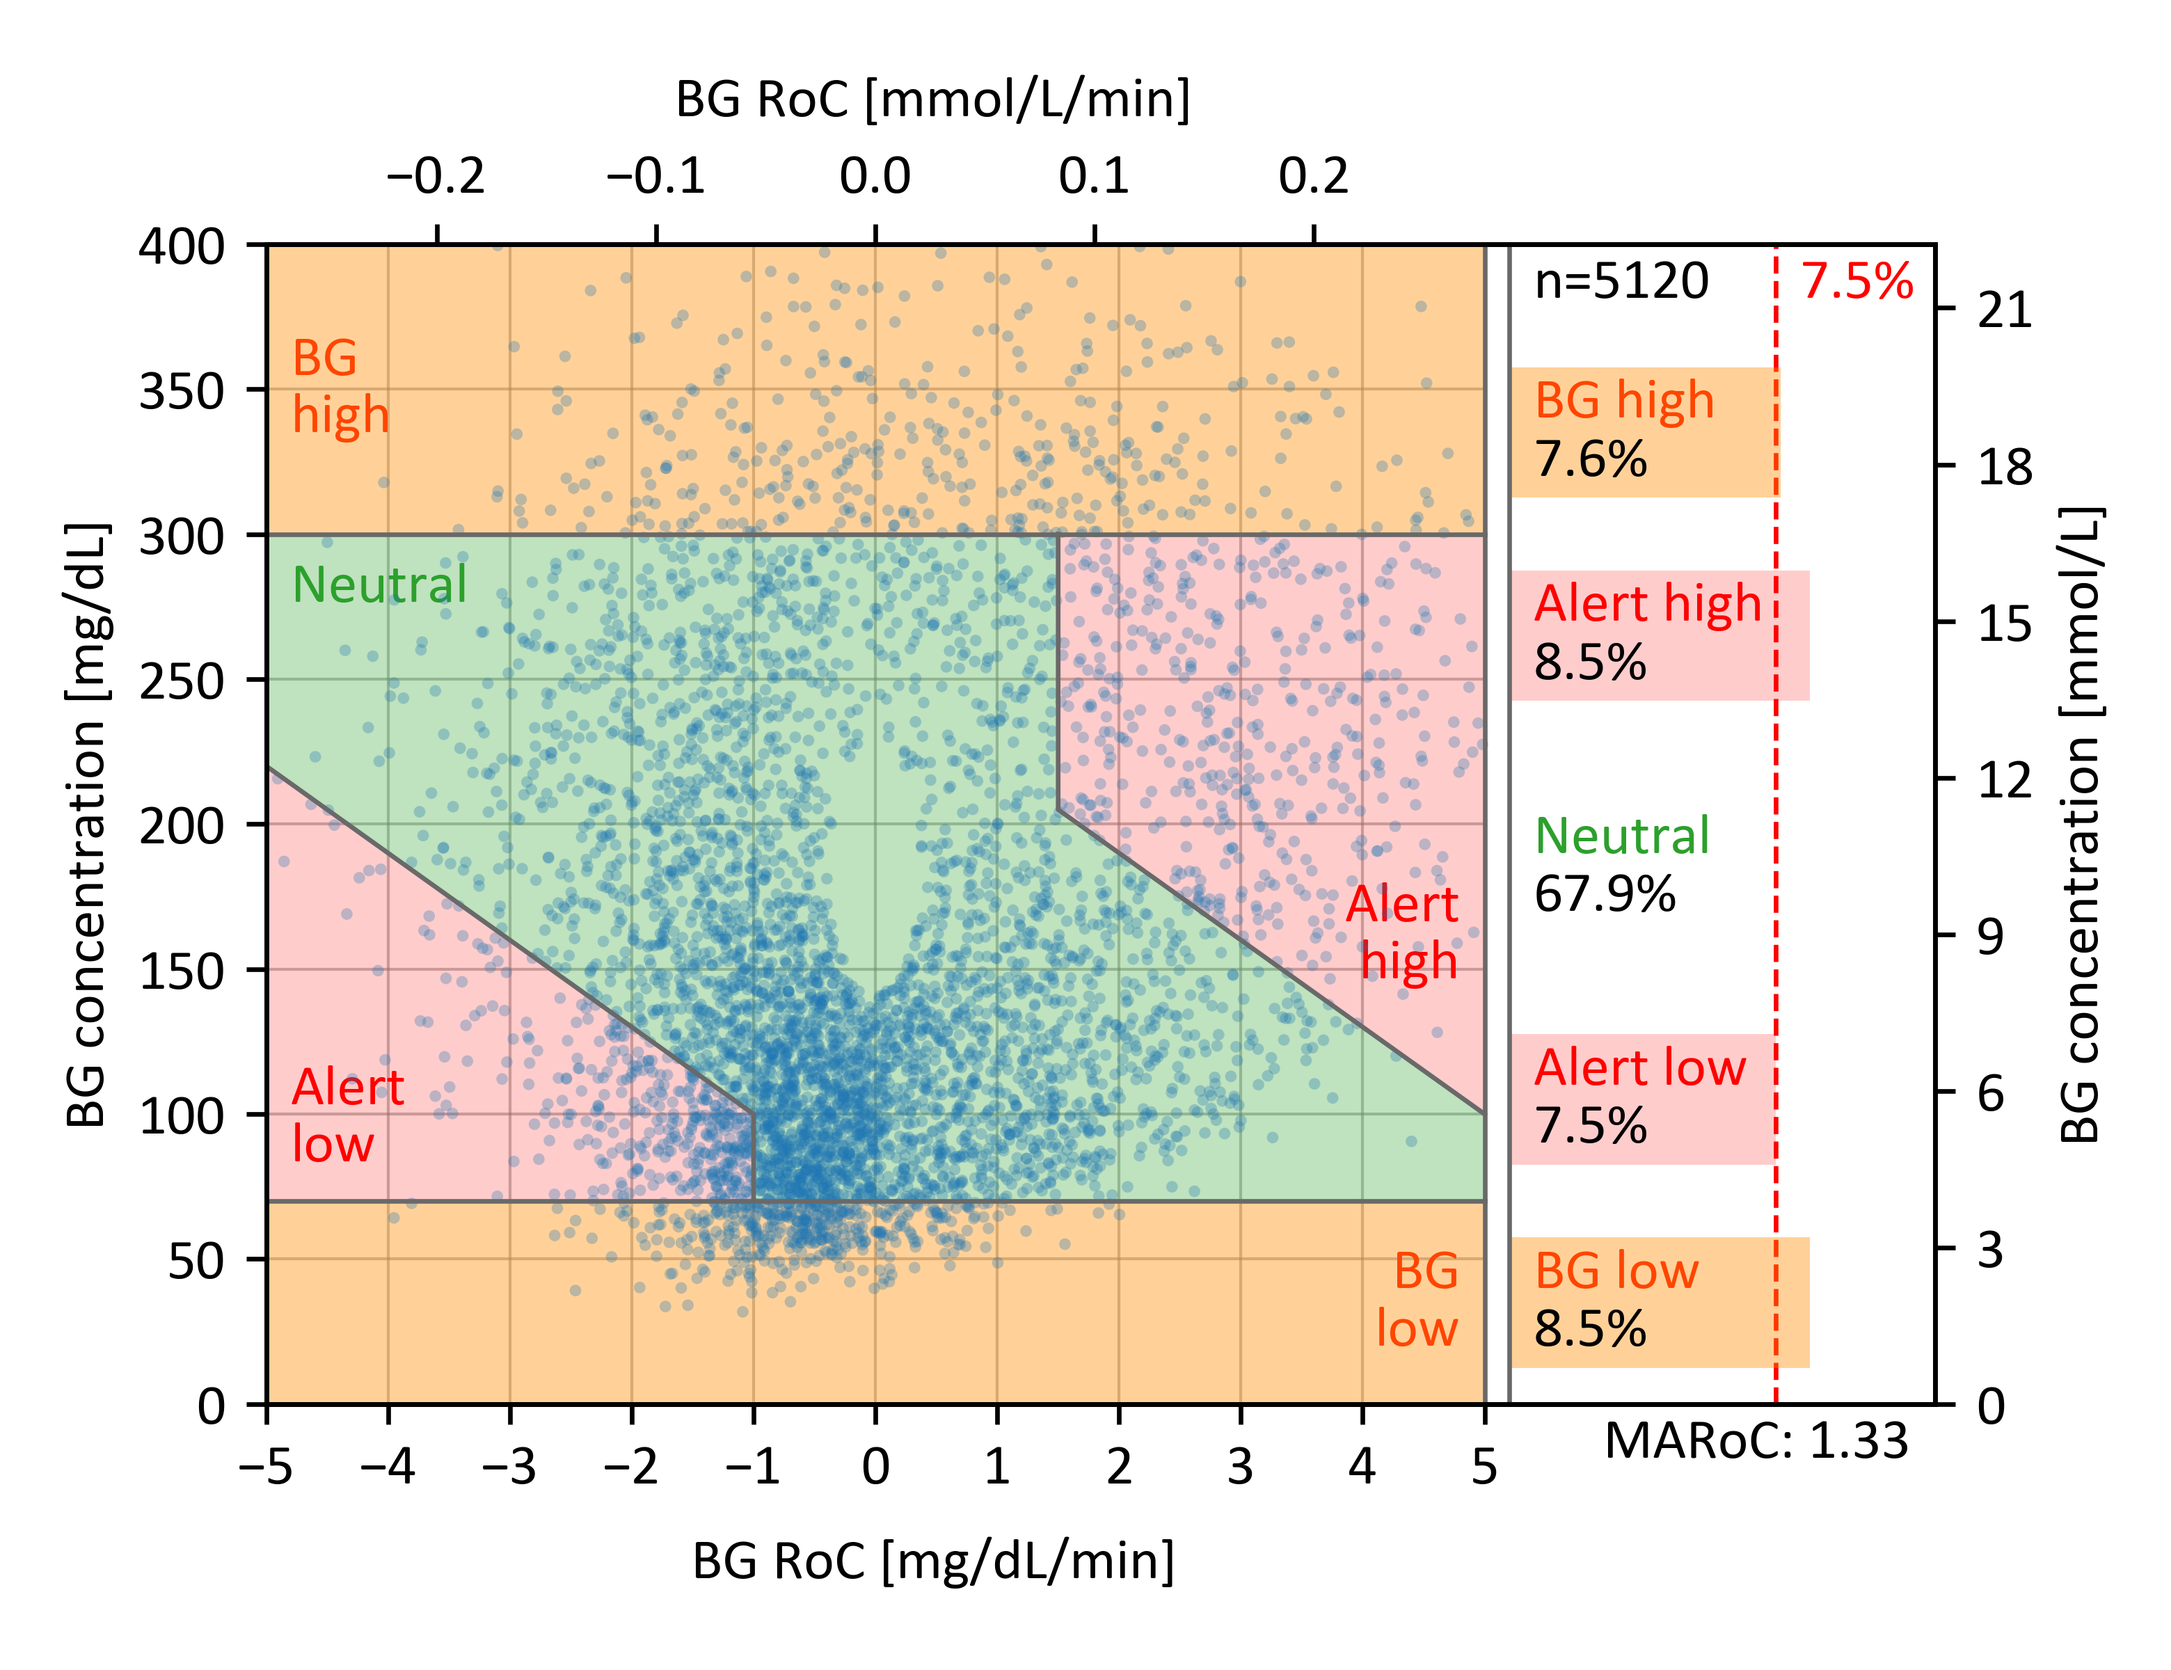
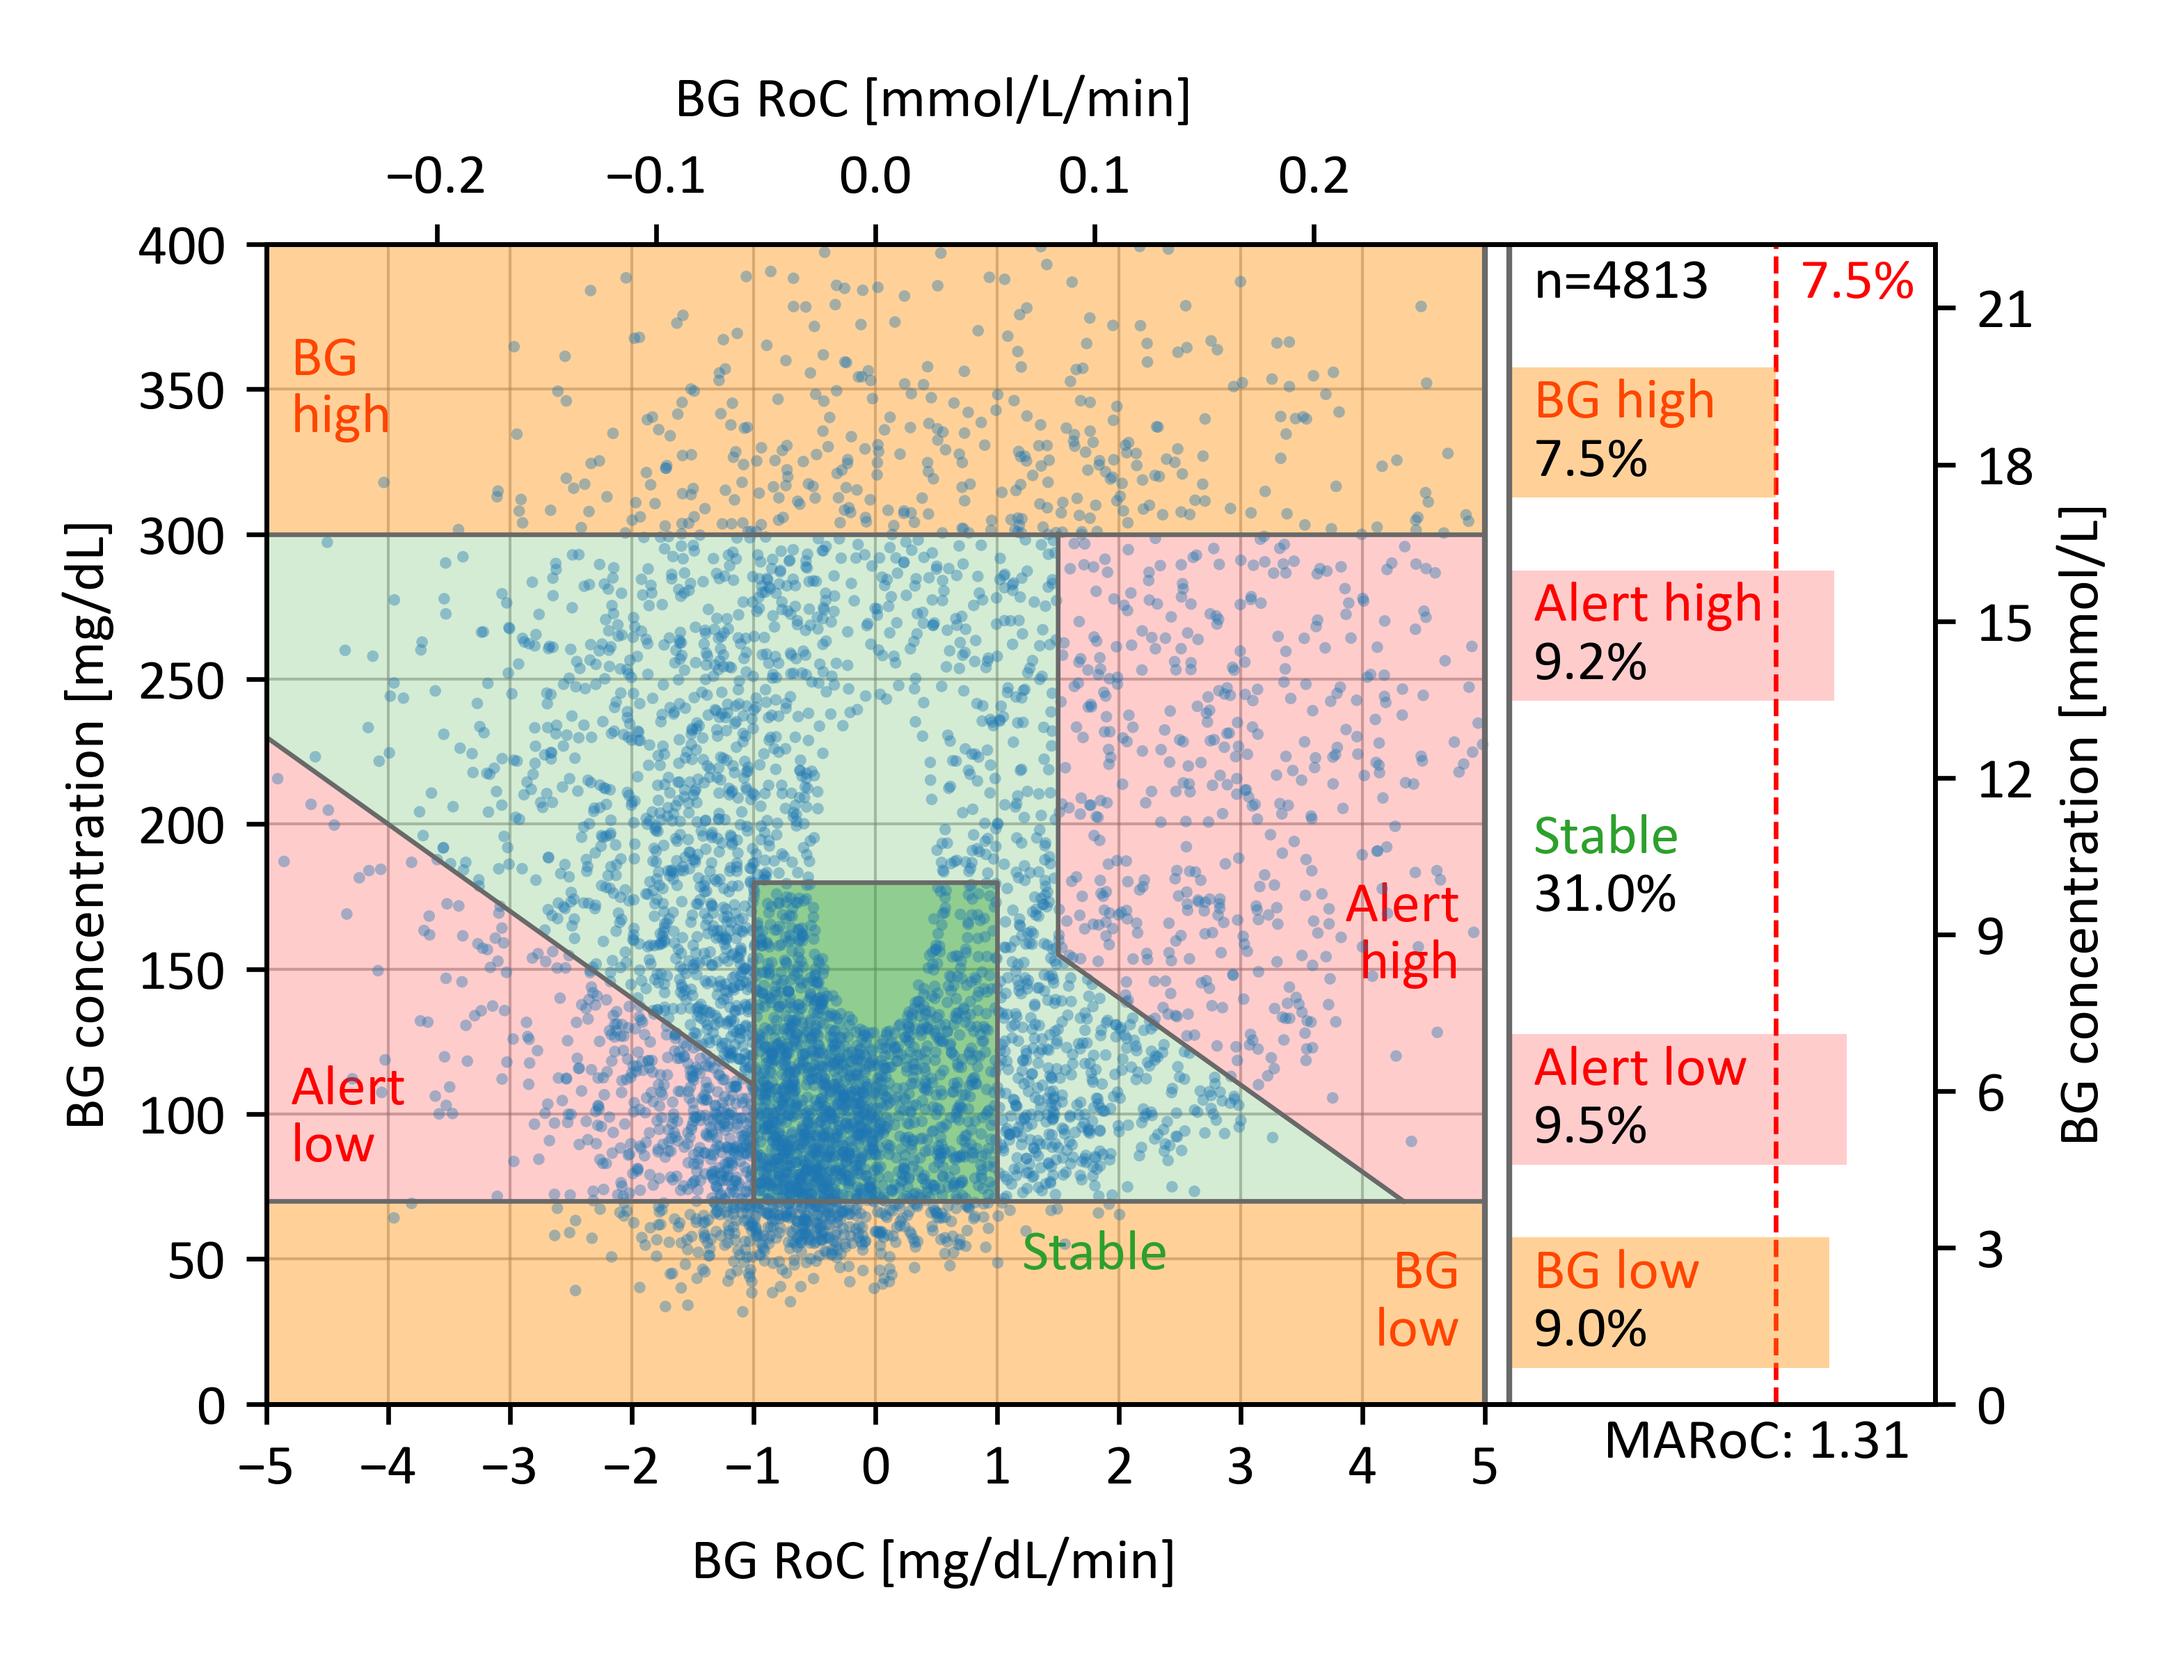
Update DGRs

diff --git a/Dynamic Glucose Region (DGR) Plot/Python/DGR_plot.py b/Dynamic Glucose Region (DGR) Plot/Python/DGR_plot.py
@@ -15,7 +15,7 @@ import os
 
 # Define the parameters of the DGR plot
 BGLow, BGHigh = 70, 300                     # Lower and upper BG limits
-AlertLowBG, AlertHighBG = 80, 200           # Lower and upper BG limts for alert regions (adapted based on 2025 article in CCA)
+AlertLowBG, AlertHighBG = 80, 200           # Lower and upper BG limts for alert regions
 AlertLowROC, AlertHighROC = -1, 1.5         # Lower and upper ROC limts for alert regions
 pred_h = 30                                 # Prediction horizon for alert regions
 ROC_lim = [-5,5]                            # Limits of ROC axis
@@ -40,7 +40,7 @@ def region_cnt(df):
 
     """
 
-    cnt = [0]*4
+    cnt = [0]*6
     n = df["BG"].count()
 
     # Predicted BG 30 min into the future
@@ -54,10 +54,10 @@ def region_cnt(df):
     cnt[2] = (((df["BG"] >= BGLow) & (df["BGP"] < AlertLowBG) & (df["ROC"] < AlertLowROC))*1).sum()
     # Alert high
     cnt[3] = (((df["BG"] <= BGHigh) & (df["BGP"] > AlertHighBG) & (df["ROC"] > AlertHighROC))*1).sum()
-    # Neutral
-    cnt.append(n-sum(cnt))
+    # Stable
+    cnt[4] = (((df["BG"] <= 180) & (df["BG"] >= 70) & (df["ROC"] >= -1) & (df["ROC"] <= 1))*1).sum()
     # Total
-    cnt.append(n)
+    cnt[5] = n
 
     return np.array(cnt)
 
@@ -112,7 +112,7 @@ def remove_data(df):
 
         else:
             # Insert NaNs for exluded pairs
-            df.iloc[:n_ex,:] = np.NaN
+            df.iloc[:n_ex,:] = np.nan
             # restore original sorting (I can't remember why)
             df = df.sort_index()
             msg = "{:d} ({:.1f}%) RoC-BG pairs excluded".format(n_ex,n_ex/cnt[5]*100)
@@ -131,7 +131,7 @@ def DGR_plot(df,save_path=None,filename="DGR_plot",figsize=[13,10],ax=None,
     figsize:        [Width,Height] of figure in cm
     ax:             Handle to existing axis object
     save_fig:       True/False whether to save the figure
-    show_fig:      True/False whether to show the figure
+    show_plot:      True/False whether to show the figure
     show_mmol:      True/False whether to inlcude axes in mmol/L or mmol/L/min
     remove_dat:     True/False whether to remove data to fullfill the requirements
 
@@ -188,21 +188,33 @@ def DGR_plot(df,save_path=None,filename="DGR_plot",figsize=[13,10],ax=None,
 
     # Boundaries
     zo = 4
+    border_lw=0.8
     col = "dimgrey"
-    lw = 0.8
-    # BG low
-    ax.plot(ROC_lim,[BGLow]*2,color=col,zorder=zo,linewidth=lw)
-    # BG high
-    ax.plot(ROC_lim,[BGHigh]*2,color=col,zorder=zo,linewidth=lw)
-    # Alert low
-    ax.plot([AlertLowROC,AlertLowROC,ROC_lim[0]],
-            [BGLow,AlertLowBG-AlertLowROC*pred_h,AlertLowBG-ROC_lim[0]*pred_h],color=col,zorder=zo,linewidth=lw)
-    # Alert high
-    ax.plot([AlertHighROC,AlertHighROC,ROC_lim[1]],
-            [BGHigh,AlertHighBG-AlertHighROC*pred_h,AlertHighBG-ROC_lim[1]*pred_h],color=col,zorder=zo,linewidth=lw)
 
-    ax.plot([ROC_lim[1]]*2,BG_lim,color=col,zorder=zo,linewidth=lw)
-    ax.plot([ROC_lim[1]+pad]*2,BG_lim,color=col,zorder=zo,linewidth=lw)
+    # BG low
+    ax.plot(ROC_lim,[BGLow]*2,color=col,zorder=zo,linewidth=border_lw)
+    # BG high
+    ax.plot(ROC_lim,[BGHigh]*2,color=col,zorder=zo,linewidth=border_lw)
+    # Alert low
+    if AlertLowBG-ROC_lim[0]*pred_h <= BGHigh:
+        ax.plot([AlertLowROC,AlertLowROC,ROC_lim[0]],
+                [BGLow,AlertLowBG-AlertLowROC*pred_h,AlertLowBG-ROC_lim[0]*pred_h],color=col,zorder=zo,linewidth=border_lw)
+    else:
+        ax.plot([AlertLowROC,AlertLowROC,-(BGHigh-AlertLowBG)/pred_h],
+                [BGLow,AlertLowBG-AlertLowROC*pred_h,BGHigh],color=col,zorder=zo,linewidth=border_lw)
+    # Alert high
+    if AlertHighBG-ROC_lim[1]*pred_h >= BGLow:
+        ax.plot([AlertHighROC,AlertHighROC,ROC_lim[1]],
+                [BGHigh,AlertHighBG-AlertHighROC*pred_h,AlertHighBG-ROC_lim[1]*pred_h],color=col,zorder=zo,linewidth=border_lw)
+    else:
+        ax.plot([AlertHighROC,AlertHighROC,-(BGLow-AlertHighBG)/pred_h],
+                [BGHigh,AlertHighBG-AlertHighROC*pred_h,BGLow],color=col,zorder=zo,linewidth=border_lw)
+    # Stable
+    ax.plot([-1,1,1,-1,-1],[70,70,180,180,70],color=col,zorder=zo,linewidth=border_lw)
+
+    # Borders between DGR and bars
+    ax.plot([ROC_lim[1]]*2,BG_lim,color=col,zorder=zo,linewidth=1)
+    ax.plot([ROC_lim[1]+pad]*2,BG_lim,color=col,zorder=zo,linewidth=1)
 
     # Region colors
     # BG high
@@ -213,17 +225,37 @@ def DGR_plot(df,save_path=None,filename="DGR_plot",figsize=[13,10],ax=None,
             [BG_lim[0],BG_lim[0],BGLow,BGLow],color="darkorange",alpha=0.4,zorder=2,edgecolor="None")
 
     # Alert Low
-    ax.fill([ROC_lim[0],AlertLowROC,AlertLowROC,ROC_lim[0]],
-            [BGLow,BGLow,AlertLowBG-AlertLowROC*pred_h,AlertLowBG-ROC_lim[0]*pred_h],
-            color="red",alpha=0.2,zorder=2,edgecolor="None")
+    if AlertLowBG-ROC_lim[0]*pred_h <= BGHigh:
+        ax.fill([ROC_lim[0],AlertLowROC,AlertLowROC,ROC_lim[0]],
+                [BGLow,BGLow,AlertLowBG-AlertLowROC*pred_h,AlertLowBG-ROC_lim[0]*pred_h],
+                color="red",alpha=0.2,zorder=2,edgecolor="None")
+    else:
+        ax.fill([ROC_lim[0],AlertLowROC,AlertLowROC,-(BGHigh-AlertLowBG)/pred_h,ROC_lim[0]],
+                [BGLow,BGLow,AlertLowBG-AlertLowROC*pred_h,BGHigh,BGHigh],
+                color="red",alpha=0.2,zorder=2,edgecolor="None")
+
     # Alert High
-    ax.fill([ROC_lim[1],AlertHighROC,AlertHighROC,ROC_lim[1]],
-            [BGHigh,BGHigh,AlertHighBG-AlertHighROC*pred_h,AlertHighBG-ROC_lim[1]*pred_h],
-            color="red",alpha=0.2,zorder=2,edgecolor="None")
+    if AlertHighBG-ROC_lim[1]*pred_h >= BGLow:
+        ax.fill([ROC_lim[1],AlertHighROC,AlertHighROC,ROC_lim[1]],
+                [BGHigh,BGHigh,AlertHighBG-AlertHighROC*pred_h,AlertHighBG-ROC_lim[1]*pred_h],
+                color="red",alpha=0.2,zorder=2,edgecolor="None")
+    else:
+        ax.fill([ROC_lim[1],AlertHighROC,AlertHighROC,-(BGLow-AlertHighBG)/pred_h,ROC_lim[1]],
+                [BGHigh,BGHigh,AlertHighBG-AlertHighROC*pred_h,BGLow,BGLow],
+                color="red",alpha=0.2,zorder=2,edgecolor="None")
+
     # Neutral
-    ax.fill([(AlertLowBG-BGHigh)/pred_h,AlertHighROC,AlertHighROC,ROC_lim[1],ROC_lim[1],AlertLowROC,AlertLowROC,(AlertLowBG-BGHigh)/pred_h],
-            [BGHigh,BGHigh,AlertHighBG-AlertHighROC*pred_h,AlertHighBG-ROC_lim[1]*pred_h,BGLow,BGLow,AlertLowBG-AlertLowROC*pred_h,BGHigh],
-            color="tab:green",alpha=0.3,zorder=2,edgecolor="None")
+    if AlertHighBG-ROC_lim[1]*pred_h >= BGLow:
+        ax.fill([(AlertLowBG-BGHigh)/pred_h,AlertHighROC,AlertHighROC,ROC_lim[1],ROC_lim[1],AlertLowROC,AlertLowROC,(AlertLowBG-BGHigh)/pred_h],
+                [BGHigh,BGHigh,AlertHighBG-AlertHighROC*pred_h,AlertHighBG-ROC_lim[1]*pred_h,BGLow,BGLow,AlertLowBG-AlertLowROC*pred_h,BGHigh],
+                color="tab:green",alpha=0.2,zorder=2,edgecolor="None")
+    else:
+        ax.fill([(AlertLowBG-BGHigh)/pred_h,AlertHighROC,AlertHighROC,-(BGLow-AlertHighBG)/pred_h,AlertLowROC,AlertLowROC,(AlertLowBG-BGHigh)/pred_h],
+                [BGHigh,BGHigh,AlertHighBG-AlertHighROC*pred_h,BGLow,BGLow,AlertLowBG-AlertLowROC*pred_h,BGHigh],
+                color="tab:green",alpha=0.2,zorder=2,edgecolor="None")
+
+    # Stable
+    ax.fill([-1,1,1,-1],[70,70,180,180],color="tab:green",alpha=0.4,zorder=2,edgecolor="None")
 
     # Region labels
     alpha = 1
@@ -232,14 +264,14 @@ def DGR_plot(df,save_path=None,filename="DGR_plot",figsize=[13,10],ax=None,
     ax.text(ROC_lim[1]-0.2,35,"BG\nlow",va="center",ha="right",color="orangered",alpha=alpha)
     ax.text(ROC_lim[1]-0.2,180,"Alert\nhigh",va="top",ha="right",color="red",alpha=alpha)
     ax.text(ROC_lim[0]+0.2,BGLow+pady,"Alert\nlow",va="bottom",ha="left",color="red",alpha=alpha)
-    ax.text(ROC_lim[0]+0.2,BGHigh-pady,"Neutral",va="top",ha="left",color="tab:green",alpha=alpha)
+    ax.text(1.8,60,"Stable",va="top",ha="center",color="tab:green",alpha=alpha)
 
     ##################################
     # Plot data
     # Scatter plot
     tmp = df.copy()
-    tmp.loc[tmp["ROC"] > 5,"ROC"] = np.NaN
-    ax.scatter(tmp["ROC"],tmp["BG"],s=4,color="tab:blue",zorder=3,alpha=0.3,edgecolor="None")
+    tmp.loc[tmp["ROC"] > 5,"ROC"] = np.nan
+    ax.scatter(tmp["ROC"],tmp["BG"],s=4,color="tab:blue",zorder=3,alpha=0.4,edgecolor="None")
 
     # Bars on the right
     cnt = region_cnt(df.copy())
@@ -257,8 +289,8 @@ def DGR_plot(df,save_path=None,filename="DGR_plot",figsize=[13,10],ax=None,
 
     # Number of pairs
     ax.text(ROC_lim[1]+pad*2,BG_lim[1]-5,"n={:d}".format(cnt[5]),va="top",ha="left",color="k")
-    # Neutral region
-    ax.text(ROC_lim[1]+pad*2,195,"Neutral",va="center",ha="left",color="tab:green")
+    # Stable region
+    ax.text(ROC_lim[1]+pad*2,195,"Stable",va="center",ha="left",color="tab:green")
     ax.text(ROC_lim[1]+pad*2,175,"{:.1f}%".format(share[4]),va="center",ha="left",color="black")
     # MARoC
     ax.text(ROC_lim[1]+bspace,BG_lim[0]-5,"MARoC: {:.2f}".format(df["ROC"].abs().mean()),va="top",ha="right",color="k")
